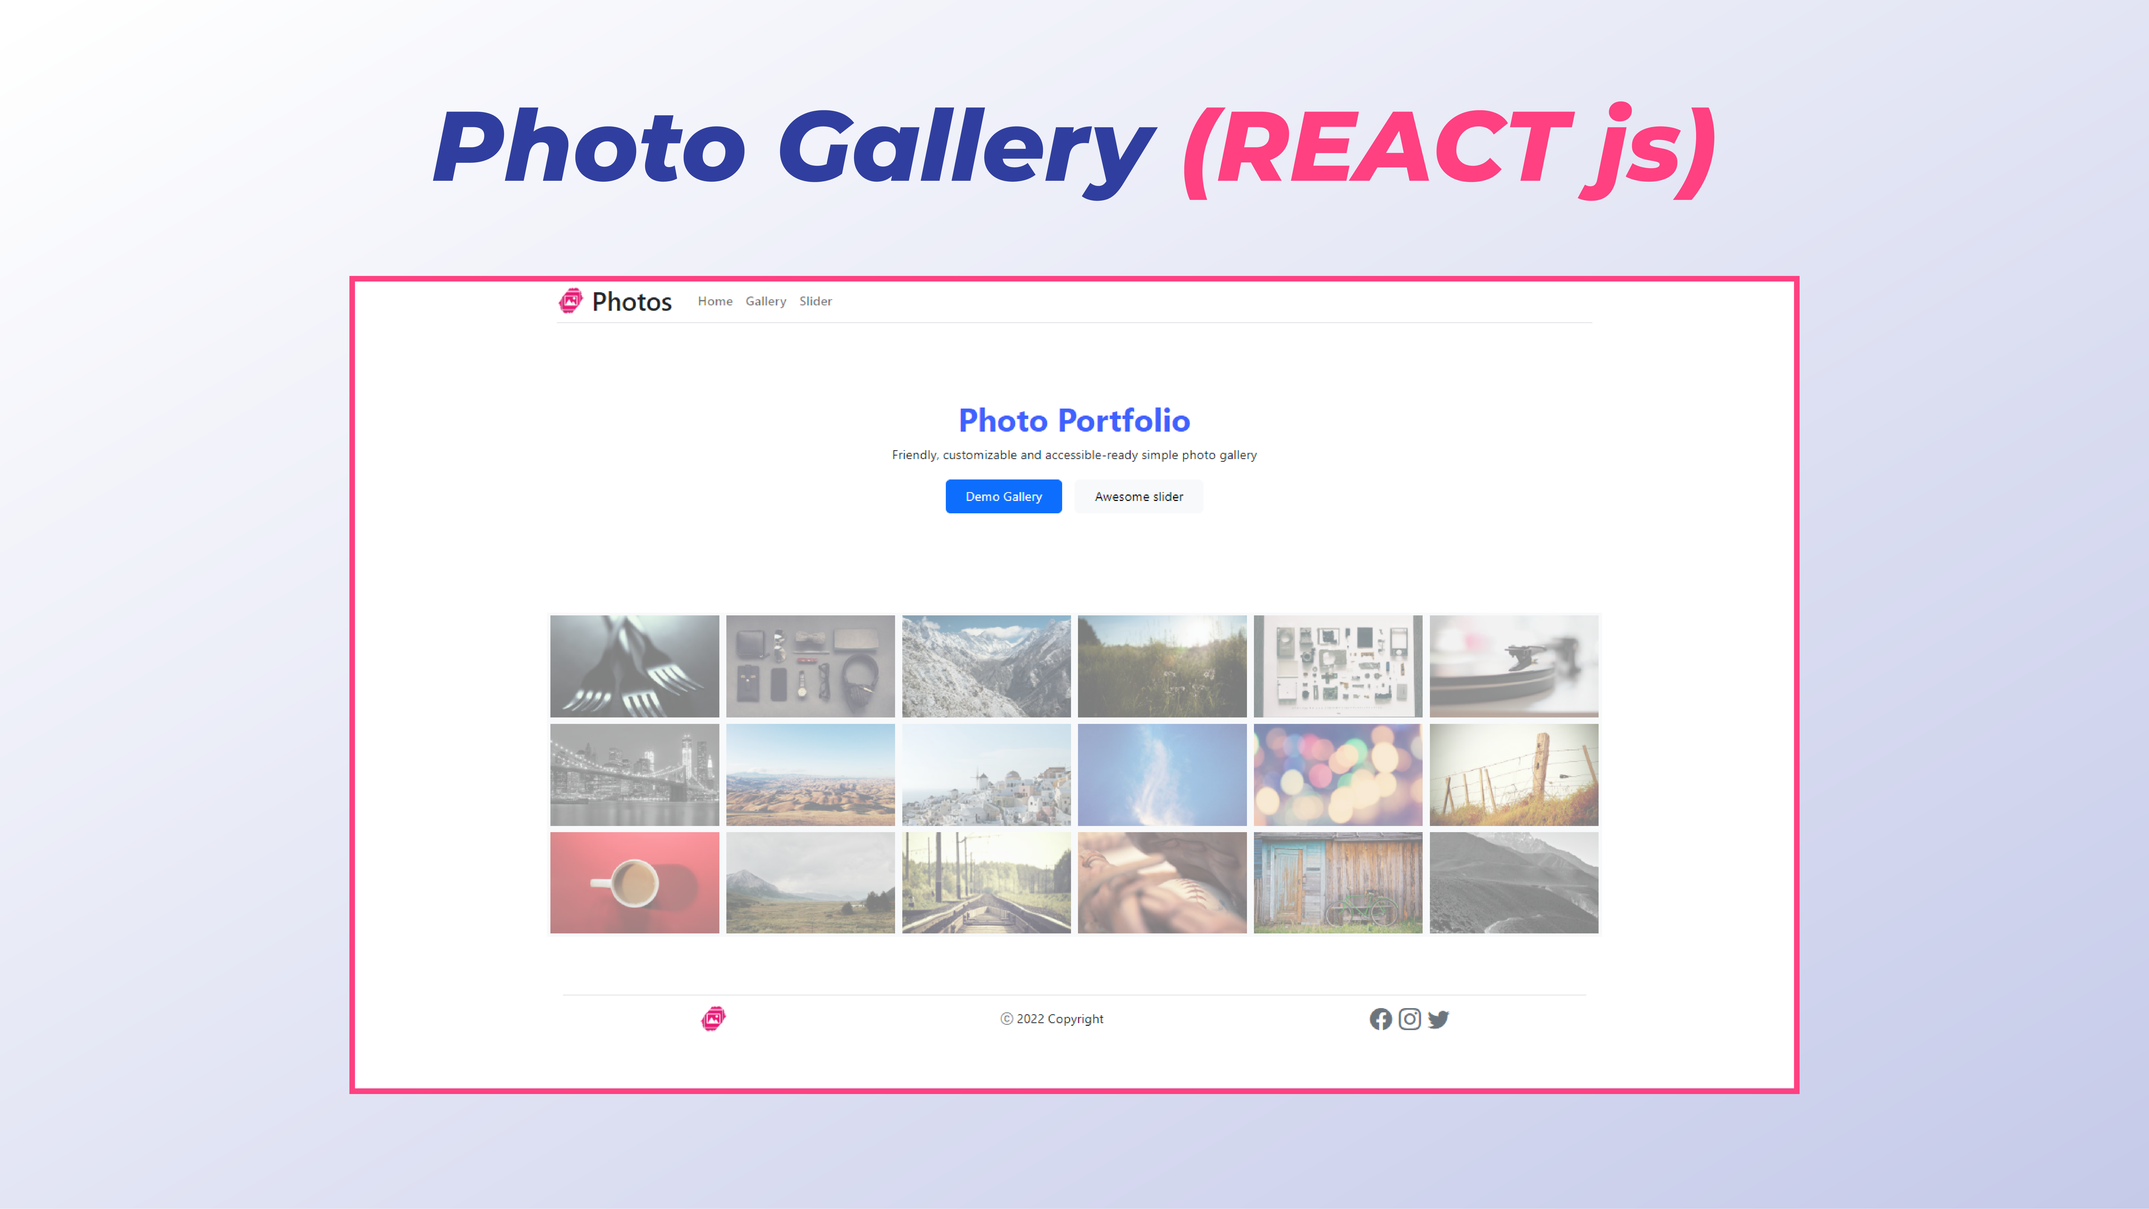
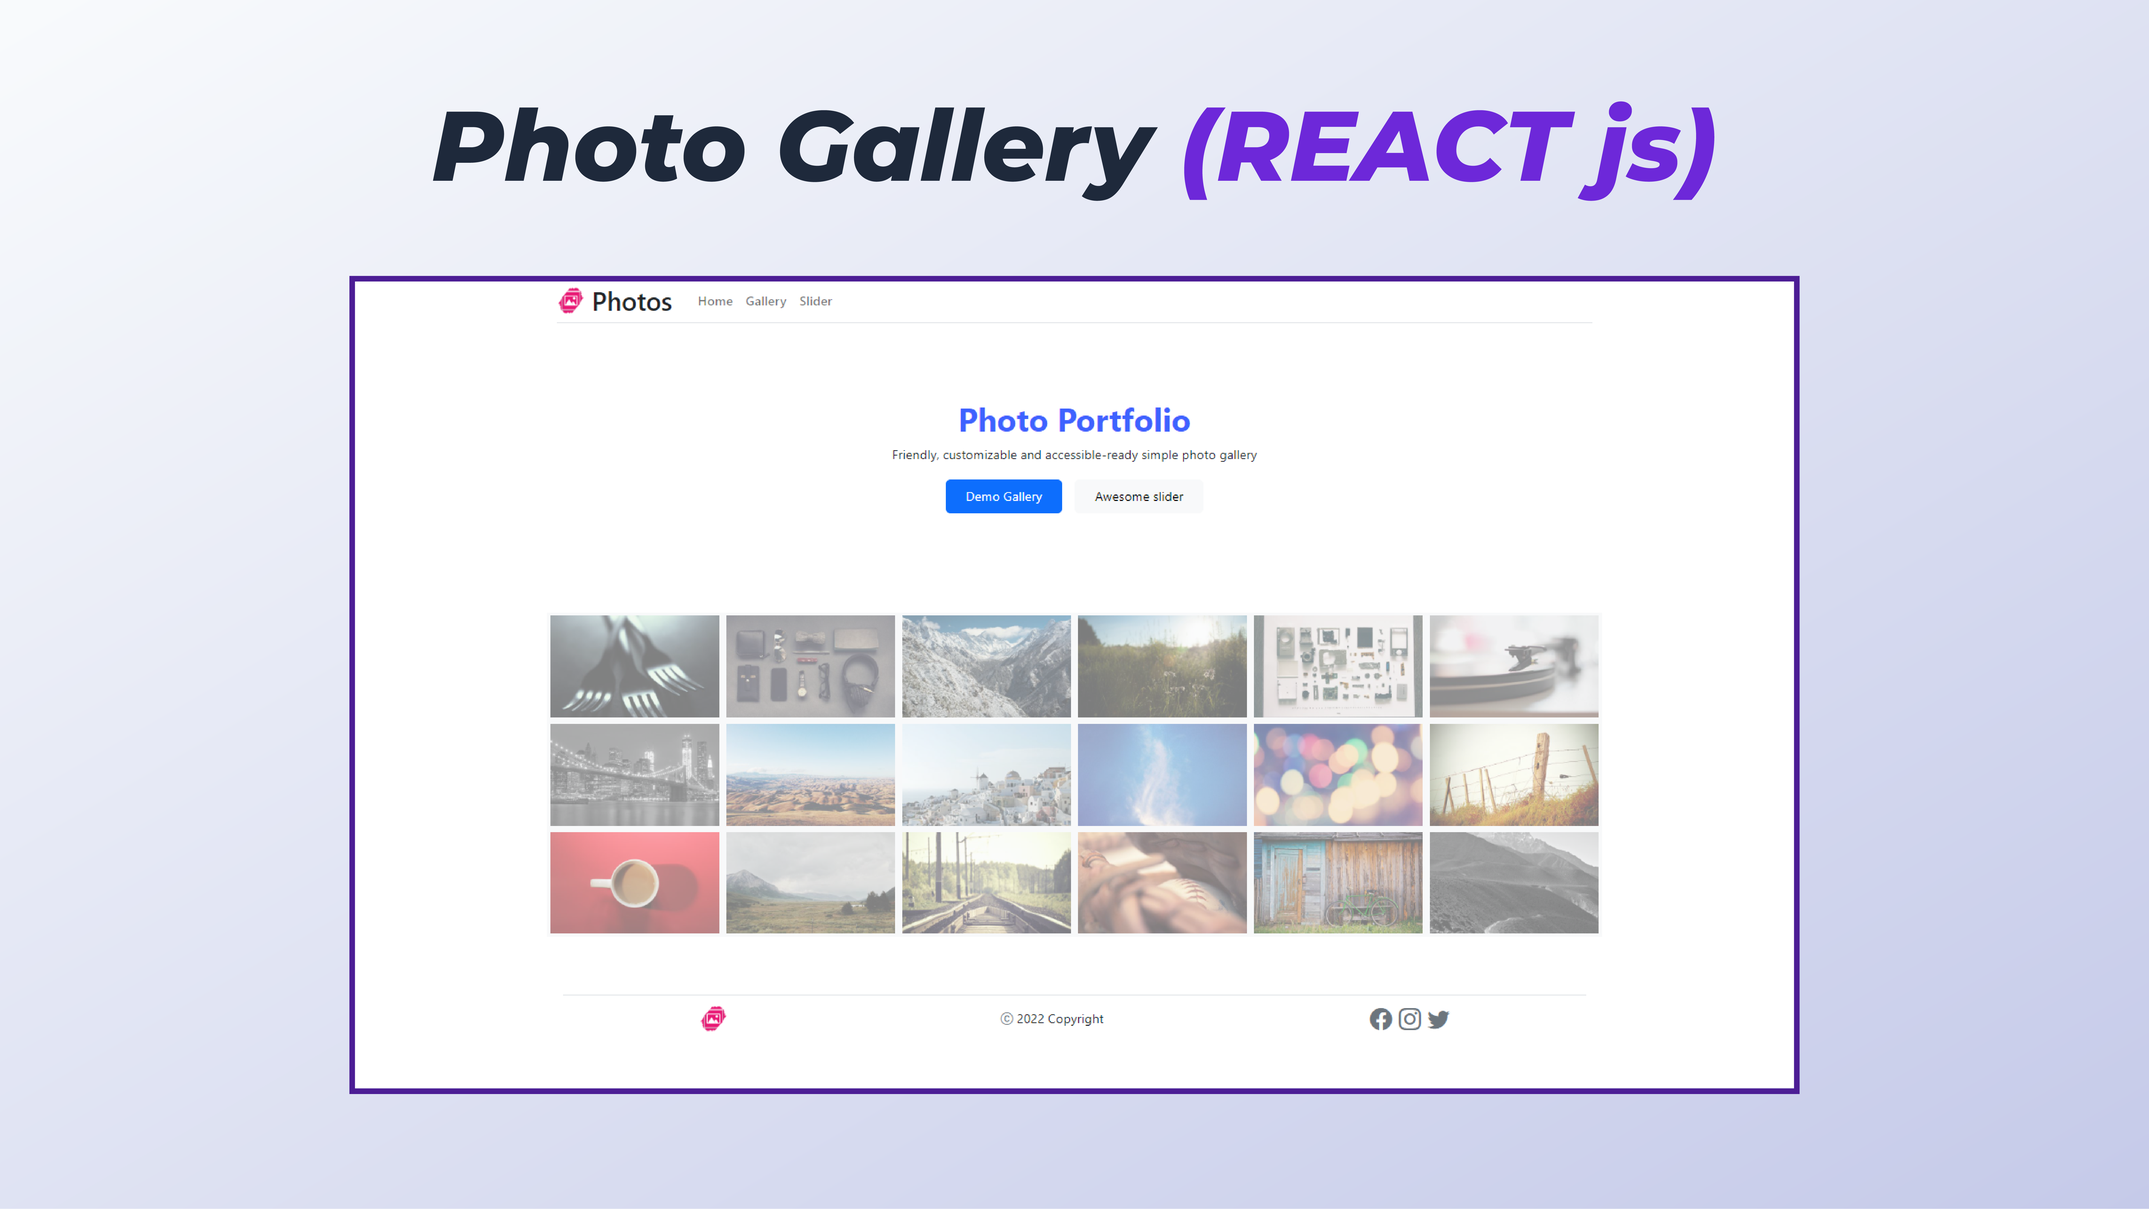
adding-push

diff --git a/src/pages/Portfolio/Item.jsx b/src/pages/Portfolio/Item.jsx
@@ -1,81 +1,118 @@
-import { motion } from 'framer-motion'
+import { motion, AnimateSharedLayout, AnimatePresence  } from 'framer-motion'
 import React, {useState} from 'react'
+import BackDrop from './BackDrop'
+import { Link } from 'react-router-dom'
 
 const items = [
     {
         id:1,
-        name: "projectname",
+        name: "Photo portfolio",
         img: "url",
-        link: "url",
-        describe: "paragraf about th project to describe them paragraf about th project to describe them paragraf about th project to describe them paragraf about th project to describe them "
+        link: "https://moayad7.github.io/photo-gallery/",
+        describe: "designed by bootstraps, and include (react router, react link, react modal, react slider) and the photos reference is from picsum.com."
     },
     {
         id:2,
-        name: "projectname",
+        name: "Advice Generator",
         img: "url",
-        link: "url",
-        describe: "paragraf about th project to describe them paragraf about th project to describe them paragraf about th project to describe them paragraf about th project to describe them "
+        link: "https://moayad7.github.io/advices/",
+        describe: "A component app designed by tailwindCSS, shows a random advice from custom api and has pretty motion by (framer-motion)"
     },
     {
         id:3,
-        name: "projectname",
+        name: "QR generator",
         img: "url",
-        link: "url",
-        describe: "paragraf about th project to describe them paragraf about th project to describe them paragraf about th project to describe them paragraf about th project to describe them "
+        link: "https://moayad7.github.io/qr-generator/",
+        describe: "A component app designed by tailwindCSS, used google api to generate QR pattern. "
     },
     {
         id:4,
-        name: "projectname",
+        name: "Weather app",
         img: "url",
-        link: "url",
-        describe: "paragraf about th project to describe them paragraf about th project to describe them paragraf about th project to describe them paragraf about th project to describe them "
+        link: "https://moayad7.github.io/weather-app/",
+        describe: "A component app designed by tailwindCSS, used openweather api to get the weather of locations."
     },
     {
         id:5,
-        name: "projectname",
+        name: "Login app",
         img: "url",
-        link: "url",
-        describe: "paragraf about th project to describe them paragraf about th project to describe them paragraf about th project to describe them paragraf about th project to describe them "
+        link: "https://moayad7.github.io/login-app/",
+        describe: "A component app designed by tailwindCSS, have authentication and simple design."
     },
     {
         id:6,
-        name: "projectname",
+        name: "Search app",
         img: "url",
-        link: "url",
-        describe: "paragraf about th project to describe them paragraf about th project to describe them paragraf about th project to describe them paragraf about th project to describe them "
+        link: "https://moayad7.github.io/search-app/",
+        describe: "A component app designed by bootstraps, very simple app, does search in a list of objects. "
     },
     {
         id:7,
-        name: "projectname",
+        name: "Blogr landing",
         img: "url",
-        link: "url",
-        describe: "paragraf about th project to describe them paragraf about th project to describe them paragraf about th project to describe them paragraf about th project to describe them "
+        link: "https://moayad7.github.io/blogr-landing/",
+        describe: "A linding page made and designed by html,css,bootstraps"
     },
     {
         id:8,
-        name: "projectname",
+        name: "Bootstrap project:",
         img: "url",
-        link: "url",
-        describe: "paragraf about th project to describe them paragraf about th project to describe them paragraf about th project to describe them paragraf about th project to describe them "
+        link: "https://moayad7.github.io/Bootstrap-project/",
+        describe: "A landing page designed only by bootsrap,html."
     }
 ]
 
 
-
 export const Item = () => {
+    const [selectedId, setSelectedId] = useState(null)
+    const [isOpen, setIsOpen] = useState(false)
+
+const handleClick = () => {
+    setSelectedId(null);
+     setIsOpen(false)
+}
+
+
   return (
-    <div className='grid grid-cols-1 md:grid-cols-2 xl:grid-cols-3 '>
+    <motion.div className='grid  grid-cols-1 md:grid-cols-2 xl:grid-cols-3 overflow-hidden' >
         {items.map(item => (
-            <motion.button 
-                className='flex flex-col md:flex-row items-center text-start p-4 overflow-hidden'
+            <motion.div 
+                layoutId={item.id}
+                onClick={() => {setSelectedId(item.id); setIsOpen(true)}}
+                className='flex flex-col md:flex-row items-center text-start p-4 overflow-hidden cursor-pointer'
             >
-                <motion.img initial={{x:100}} animate={{x:0}} className='w-24 h-24' src='https://picsum.photos/150'></motion.img>
+                <motion.img initial={{x:100}} animate={{x:0}} className='w-24 h-24 shadow-lg rounded-xl' src='https://picsum.photos/150'></motion.img>
                 <div className='p-4 text-center md:text-start'>
-                    <h1>{item.name}</h1>
-                    <p>{item.describe}</p>
+                    <motion.h1 className='text-xl bold text-violet-800'>{item.name}</motion.h1>
+                    <motion.p className='text-slate-500'>{item.describe}</motion.p>
                 </div>
-            </motion.button>
+            </motion.div>
+            
         ))}
-    </div>
+
+        <AnimatePresence className="" >
+            {isOpen && selectedId && (
+                <BackDrop onClick={handleClick}>
+                        <motion.div 
+                            className='text-center absolute relative w-4/5 lg:w-2/3  flex flex-col gap-y-5 bg-slate-100 place-items-center rounded-3xl p-10 '
+                            layoutId={selectedId}
+                            onClick={(e)=>e.stopPropagation()}
+                        >
+                            <motion.img initial={{x:100}} animate={{x:0}} className='shadow-lg rounded-xl' src='https://picsum.photos/400'></motion.img>
+                            
+                                <motion.h1 className='text-2xl lg:text-5xl bold'>{items[selectedId - 1].name}</motion.h1>
+                                <motion.p className='lg:text-2xl'>{items[selectedId - 1].describe}</motion.p>
+                                <motion.div
+                                    whileTap={{y:2}}
+                                >
+                                <a className='lg:text-2xl bold italic pointer-event-none border-b-2 p-2  border-dashed text-violet-800 rounded-lg border-violet-700 ' href={`${items[selectedId - 1].link}`} target="_blank">Live Demo</a>
+                                </motion.div>
+                                <motion.button className='bg-violet-800 rounded-2xl px-6 py-3 text-violet-50' onClick={() => {setSelectedId(null); ; setIsOpen(false)}} >close</motion.button>
+                           
+                        </motion.div>
+                </BackDrop>
+            )}
+        </AnimatePresence>
+    </motion.div>
   )
 }

diff --git a/src/components/Navbar/index.jsx b/src/components/Navbar/index.jsx
@@ -42,15 +42,15 @@ const Index = () => {
             initial='hidden'
             animate='visible'
         >
-            <nav className='p-5 bg-gradient-to-b from-indigo-800 via-indigo-800 to-indigo-900 shadow text-indigo-500 md:flex md:items-center justify-evenly md:justify-evenly'>
+            <nav className='p-5 bg-gradient-to-b from-slate-800 via-slate-800 to-slate-900 shadow text-slate-500 md:flex md:items-center justify-evenly md:justify-evenly'>
                 <div className='flex justify-between items-center'>
                     <Logo />
-                    <span className='text-3xl cursor-pointer mx-2 md:hidden text-indigo-50 '>
+                    <span className='text-3xl cursor-pointer mx-2 md:hidden text-slate-50 '>
                         <ion-icon name="menu" onClick={Menu} className=" transition-all ease-in duration-500"></ion-icon>
                     </span>
                 </div>
 
-                <ul className='md:pr-14 md:flex sm:items-center z-[1] md:z-auto md:static bg-indigo-900 md:bg-transparent lg:bg-transparent absolute text-white w-full left-0  md:w-auto md:py-0 py-4 text-center md:opacity-100 top-[75px] left-[-1080px] transition-all ease-in mx-auto'>
+                <ul className='md:pr-14 md:flex sm:items-center z-[1] md:z-auto md:static bg-slate-900 md:bg-transparent lg:bg-transparent absolute text-white w-full left-0  md:w-auto md:py-0 py-4 text-center md:opacity-100 top-[75px] left-[-1080px] transition-all ease-in mx-auto'>
                     <NavItems url='moayad-portfolio' name='Home'/>
                     <NavItems url='About' name='About'/>
                     <NavItems url='Portfolio' name='Portfolio'/>

diff --git a/src/pages/Home/Title.jsx b/src/pages/Home/Title.jsx
@@ -13,11 +13,11 @@ const item = {
 
 export const Title = () => {
   return (
-    <div className='h-80 flex flex-col justify-center items-center  border-b-2 border-dashed border-indigo-700 py-9 md:py-14 lg:py14 order-first sm:order-first lg:order-2'>
-        <h1 className=' text-center bold text-indigo-700 text-2xl md:text-3xl xl:text-4xl'>
-            <span className='italic text-pink-500'>Hello! </span>I'm<br/>
+    <div className='h-80 flex flex-col justify-center items-center  border-b-2 border-dashed border-slate-600 py-9 md:py-14 lg:py14 order-first sm:order-first lg:order-2'>
+        <h1 className=' text-center bold text-slate-600 text-2xl md:text-3xl xl:text-4xl'>
+            <span className='italic text-violet-700'>Hello! </span>I'm<br/>
             <motion.span variants={item} initial='hidden' animate='visible' className='bold tracking-wider'>Moayad Ahmad</motion.span><br/>
-            Frontend, <span className='text-pink-500'>React<br/> </span>developer
+            Frontend, <span className='text-violet-700'>React<br/> </span>developer
         </h1>
         <div className='grid grid-cols-3 px-1 gap-5 xl:px-14'>
             <Buttons name="My CV" url='https://drive.google.com/file/d/1ngG-Kas_WQya5veSOwLyY4r7W6jBZ3jP/view?usp=sharing'/>

diff --git a/src/components/Navbar/Footer/Footer.jsx b/src/components/Navbar/Footer/Footer.jsx
@@ -3,10 +3,10 @@ import { Logo } from '../../Logo'
 
 export const Footer = () => {
   return (
-    <div className={`sm:flex text-center justify-between items-center bg-gradient-to-b from-indigo-800 to-indigo-900 w-full px-7 sm:px-14 py-3 mt-5 sm:mt-0 lg:fixed lg:bottom-0`}>
+    <div className={`sm:flex text-center justify-between items-center bg-gradient-to-b from-slate-800 to-slate-900 w-full px-7 sm:px-14 py-3 mt-5 sm:mt-0 lg:fixed lg:bottom-0`}>
         <Logo className=""/>
-        <h1 className='text-indigo-50 sm:text-xl'>copy rights reserved &#169; 2022  </h1>
-        <div className='flex text-xl sm:text-3xl  justify-center text-indigo-50'>
+        <h1 className='text-slate-50 sm:text-xl'>copy rights reserved &#169; 2022  </h1>
+        <div className='flex text-xl sm:text-3xl  justify-center text-slate-50'>
             <a href='https://www.linkedin.com/in/moayad-ahmad/' target="_blank"><ion-icon name="logo-linkedin"></ion-icon></a>
             <a href='https://github.com/Moayad7' target="_blank"><ion-icon name="logo-github"></ion-icon></a>
             <a href='https://www.facebook.com/moayad.ahmad0/' target="_blank"><ion-icon name="logo-facebook"></ion-icon></a>

diff --git a/src/pages/Home/DragItem.jsx b/src/pages/Home/DragItem.jsx
@@ -10,9 +10,9 @@ const Index = () => {
   return (
     <motion.div 
       ref={constraintsRef}
-      className='h-80 border-b-2 border-dashed border-indigo-700 text-4xl sm:text-3xl text-indigo-800 items-center h-60 lg:h-full  w-full flex  justify-center overflow-hidden'
+      className='h-80 border-b-2 border-dashed border-slate-500 text-4xl sm:text-3xl text-slate-600 items-center h-60 lg:h-full  w-full flex  justify-center overflow-hidden'
     >
-        <h1 className='text-xl sm:text-4xl absolute z-[0] opacity-50 w-full text-center text-indigo-800 pb-14'>Welcome into my portfolio<br/> Enjoy in my space.<br/><span className='text-xl sm:text-3xl text-pink-500'>drag them &#128513;</span></h1>
+        <h1 className='text-xl sm:text-4xl absolute z-[0] opacity-50 w-full text-center text-slate-600 pb-14'>Welcome into my portfolio<br/> Enjoy in my space.<br/><span className='text-xl sm:text-3xl text-violet-500'>drag them &#128513;</span></h1>
         <motion.div 
         drag
         dragConstraints={constraintsRef}

diff --git a/src/pages/About/About.jsx b/src/pages/About/About.jsx
@@ -9,7 +9,7 @@ export const About = () => {
     <div className='w-full flex h-full flex-col'>
         <Title name="About Me" />
         <div className='py-20 sm:py-48 md:py-32 lg:py-0 px-5 grid sm:grid-cols-2 items-center  gap-6 my-10 md:my-20 lg:mx-48 xl:mx-72 relative'>
-          <p className='font-medium lg:text-3xl text-center sm:text-end p-2 border-r-2 border-dashed border-indigo-500 text-indigo-600'>
+          <p className='font-medium lg:text-3xl text-center sm:text-end p-2 border-r-2 border-dashed border-slate-500 text-slate-600'>
           Frontend Developer with experience in building responsive websites with HTML, CSS, JavaScript. Expertise in frameworks like React.js, Vuejs, and with CSS libraries like Boostrabs, TailwindCSS using git as version control. Passionate about clean code and get things done.
           </p>
           <button className='grid justify-center xs:justify:start overflow-hidden'>

diff --git a/src/components/Title.jsx b/src/components/Title.jsx
@@ -1,4 +1,5 @@
-import { motion } from 'framer-motion'
+import { faDisplay } from '@fortawesome/free-solid-svg-icons'
+import { LayoutGroup, motion } from 'framer-motion'
 import React from 'react'
 
 
@@ -15,13 +16,13 @@ const item = {
 export const Title = (props) => {
   return (
     <motion.button
-      className='mt-10 md:mt-20 bg-indigo-600 rounded-2xl mx-auto'
-      whileFocus={{scale:4, y:150}}
+      className='mt-10 md:mt-20 bg-gradient-to-br from-violet-500 to-violet-700 rounded-2xl mx-auto'
+      whileFocus={{scale:1.3}}
       variants={item}
       initial="hidden"
       animate="visible"
     >
-        <h1 className='text-indigo-50 bold shadow-lg p-5 rounded-2xl text-5xl'>{props.name}</h1>
+        <h1 className='text-slate-50 bold shadow-lg p-5 rounded-2xl text-5xl'>{props.name}</h1>
     </motion.button>
   )
 }

diff --git a/src/pages/Home/Buttons.jsx b/src/pages/Home/Buttons.jsx
@@ -21,8 +21,8 @@ export const Buttons = (props) => {
         whileTap={{scale:0.8}}
         className='mt-5 whitespace-nowrap'>
         {props.name == 'My CV'
-        ?<a href={props.url} target='_blank' className=' bg-gradient-to-br from-pink-500 to-pink-700 text-white px-8 py-3 rounded-xl'>{props.name}</a> 
-        :<Link to={props.url}  className='px-5 py-2 rounded-xl border-2 border-dashed border-pink-500 text-pink-500'>{props.name}</Link>
+        ?<a href={props.url} target='_blank' className=' bg-gradient-to-br from-violet-500 to-violet-700 text-white px-8 py-3 rounded-xl'>{props.name}</a> 
+        :<Link to={props.url}  className='px-5 py-2 rounded-xl border-2 border-dashed border-violet-700 text-violet-700'>{props.name}</Link>
         }
     </motion.button>
   )

diff --git a/src/pages/Home/Advices/Components/Modal/index.jsx b/src/pages/Home/Advices/Components/Modal/index.jsx
@@ -37,7 +37,7 @@ const Modal = ({handleClose, text}) => {
                 drag='x'
                 dragConstraints={{right:0 ,left:0}}
                 onClick={(e)=>e.stopPropagation()}
-                className='bg-gradient-to-br from-pink-400 to-pink-600 text-center p-7 rounded-3xl lg:w-2/3 md:w-4/5 w-full'
+                className='bg-gradient-to-br from-violet-400 to-violet-600 text-center p-7 rounded-3xl lg:w-2/3 md:w-4/5 w-full'
                 variants={dropIn}
                 initial="hidden"
                 animate="visible"
@@ -47,7 +47,7 @@ const Modal = ({handleClose, text}) => {
                 <Button handleClose={handleClose}/>
             </motion.div>
 
-            
+
         </div>
     )
 }

diff --git a/src/components/Navbar/NavItems.jsx b/src/components/Navbar/NavItems.jsx
@@ -23,8 +23,8 @@ export const NavItems = (props) => {
     >
     {
       props.name == 'My CV'
-      ?<a href={props.url} target='_blank' className='w-full bg-gradient-to-br from-pink-500 to-pink-700 text-white px-7 py-3 rounded-xl '>{props.name}</a> 
-      :<motion.li><Link to={props.url} className=' w-full text-xl hover:text-pink-500 '>{props.name}</Link></motion.li>
+      ?<a href={props.url} target='_blank' className='w-full bg-gradient-to-br from-violet-500 to-violet-500 text-white px-7 py-3 rounded-xl '>{props.name}</a> 
+      :<motion.li><Link to={props.url} className=' w-full text-xl hover:text-violet-500 '>{props.name}</Link></motion.li>
     }
     </motion.div>
   )

diff --git a/src/pages/Home/Advices/Advices.jsx b/src/pages/Home/Advices/Advices.jsx
@@ -13,8 +13,8 @@ function Advices() {
   
   
   return (
-    <div className=" border-b-2 border-dashed border-indigo-800 h-80 sm:h-full py-9 md:py-14 flex flex-col justify-center items-center lg:order-3 relative">
-        <h1 className='text-indigo-600 italic'>Here you can take a random advice</h1>
+    <div className=" border-b-2 border-dashed border-slate-800 h-80 sm:h-full py-9 md:py-14 flex flex-col justify-center items-center lg:order-3 relative">
+        <h1 className='text-slate-600 italic'>Here you can take a random advice</h1>
         <ShowButton modalOpen={modalOpen} close={close} open={open}></ShowButton>
         <AnimatePresence
             initial={false}

diff --git a/src/pages/Home/Features/Slider.jsx b/src/pages/Home/Features/Slider.jsx
@@ -21,7 +21,7 @@ export const Slider = () => {
                     <motion.div className='mb-5' >
                         <img className='rounded-2xl w-full h-full pointer-events-none '  src={image.img} alt=''/>
                     </motion.div>
-                    <a className='text-indigo-800 sm:text-xl italic' href={image.url} target="_blank">{image.url}</a>
+                    <a className='text-slate-800 sm:text-xl italic' href={image.url} target="_blank">{image.url}</a>
                 </div>
               );
             })}
